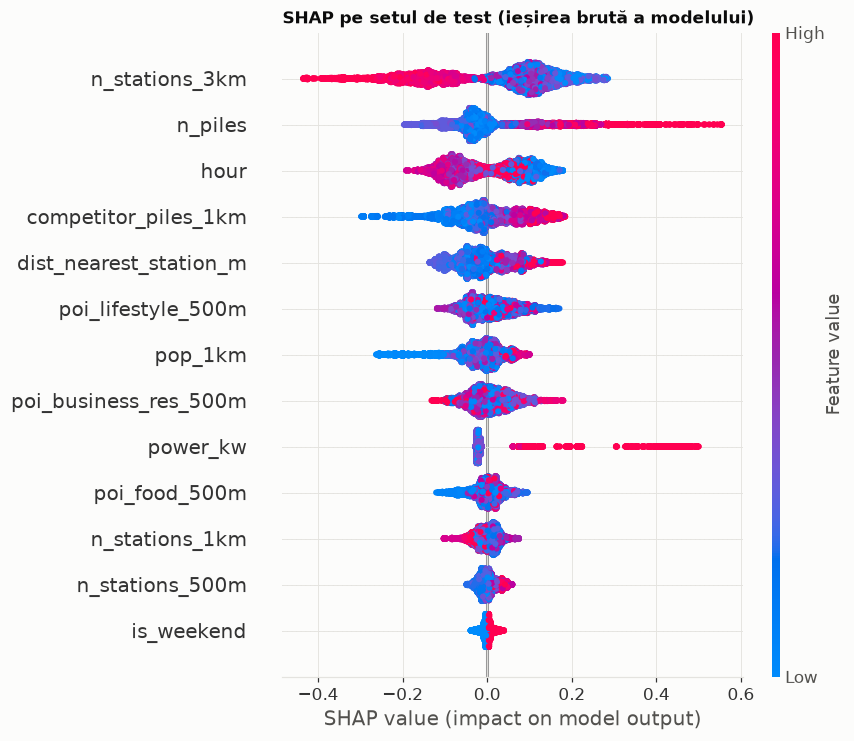
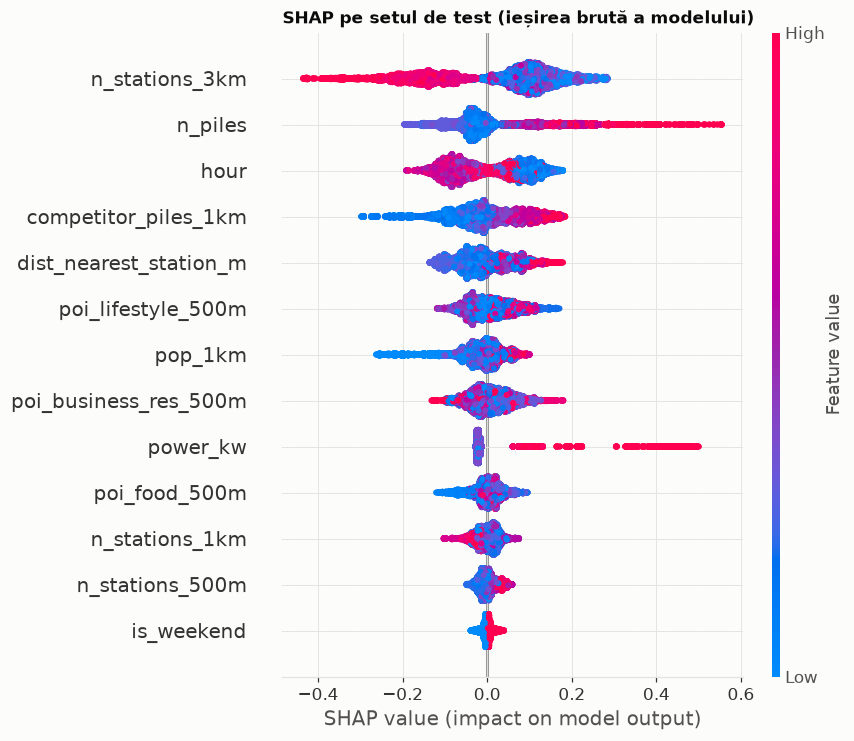
Pas 8: README, jurnalul experimentelor, reproductibilitate verificată de la zero
Rularea completă de la zero (fără data/processed/*.parquet, models/, reports/)
produce metrics.json, experiments.json, analysis.json și lgbm.txt identice.
Elimină timpii din cv_results.csv și fixează seed-ul pentru jitter-ul SHAP.

Changed region(s): [[0.4871, 0.0621, 0.7307, 0.807], [0.4567, 0.0931, 0.5176, 0.1242]]

diff --git a/src/train.py b/src/train.py
@@ -120,10 +120,9 @@ def train(feature_set="full", monotone=C.USE_MONOTONE, save=True, quick=False):
         t = time.time()
         maes, iters = run_cv(tr, features, params, folds, mode)
         rows.append({"target_mode": mode, **obj, **extra, "cv_mae": np.mean(maes), "cv_mae_std": np.std(maes),
-                     "best_iter_mean": np.mean(iters), "fold_maes": maes, "fold_iters": iters,
-                     "secs": round(time.time() - t, 1)})
+                     "best_iter_mean": np.mean(iters), "fold_maes": maes, "fold_iters": iters})
         print(f"{mode:3s} {json.dumps({**obj, **extra})}: CV MAE {np.mean(maes):.4f} ± {np.std(maes):.4f}, "
-              f"iter {np.mean(iters):.0f}")
+              f"iter {np.mean(iters):.0f} ({time.time() - t:.0f}s)")
     cv = pd.DataFrame(rows).sort_values("cv_mae").reset_index(drop=True)
     best = cv.iloc[0]
     mode = best["target_mode"]

diff --git a/src/analysis.py b/src/analysis.py
@@ -184,6 +184,7 @@ def profiles(pred: pd.DataFrame, st: pd.DataFrame) -> dict:
 def shap_analysis(booster, features, X: pd.DataFrame, target_mode: str) -> dict:
     sv = shap.TreeExplainer(booster).shap_values(X[features])
     fig = plt.figure()
+    np.random.seed(C.SEED)  # beeswarm-ul folosește jitter aleator; seed pentru figuri reproductibile
     shap.summary_plot(sv, X[features], show=False, max_display=len(features))
     plt.title("SHAP pe setul de test (ieșirea brută a modelului)", loc="left")
     save(plt.gcf(), "shap_summary.png")

diff --git a/src/inspect_data.py b/src/inspect_data.py
@@ -38,7 +38,8 @@ def main():
     dist = load_station_distance()
     describe("station_information.csv", info)
     describe("pile_rated_power.csv", piles)
-    describe("station_distance.csv (primele 6 coloane)", dist.reset_index(), show_cols=6)
+    dist_df = pd.concat([pd.Series(dist.index, name="ID"), dist.reset_index(drop=True)], axis=1)
+    describe("station_distance.csv (primele 6 coloane)", dist_df, show_cols=6)
     describe("poi.csv", poi)
 
     ids = list_station_ids()

diff --git a/README.md b/README.md
@@ -1,0 +1,130 @@
+# Cererea la stațiile de încărcare EV: model ML (faza 1)
+
+Smarthack XI 2026, tema PPC „24h to Power PPC”.
+
+Modelul prezice **cererea de încărcare** la o stație: numărul mediu de puncte ocupate, pentru fiecare oră a zilei și fiecare tip de zi (lucrătoare sau weekend). Folosește doar informații care există și pentru o **locație nouă**: competiția din jur, populația, POI, mărimea și puterea stației, ora. Nu folosește coordonate, ID-uri, prețuri sau istoricul de ocupare. A fost antrenat pe datele UrbanEV din Shenzhen (1.406 stații, septembrie 2022 – februarie 2023) și va fi folosit ulterior de un agent care recomandă unde să se construiască stații noi.
+
+Planul complet: [PLAN.md](PLAN.md). Note despre date: [docs/data_notes.md](docs/data_notes.md). Experimente și analiza erorilor: [docs/experiments.md](docs/experiments.md).
+
+## Rezultate pe setul de test
+
+Testul conține 20% din zonele de trafic (TAZ), alese o singură dată cu seed 42. Toate stațiile unei zone sunt fie în train, fie în test.
+
+| Model | MAE (rând) | RMSE (rând) | R² (rând) | MAE ore încărcare/zi (stație) | Spearman cerere zilnică |
+|---|---|---|---|---|---|
+| B0 (profil oraș) | 3.269 | 5.334 | 0.008 | 74.26 | — |
+| B1 (ocupare × n_piles) | 1.930 | 3.400 | 0.597 | 41.59 | 0.775 |
+| **LightGBM** | **1.795** | **2.949** | **0.697** | **39.05** | 0.768 |
+
+Set de test: 14.576 rânduri, 304 stații, 61 de zone (metricile pe stație folosesc 302 stații, cele cu toate cele 48 de celule). Media lui y în test e 3,757 puncte ocupate, adică 87,8 ore de încărcare pe zi per stație.
+
+- **Rând** = stație × oră × tip de zi. **Ore de încărcare pe zi** = (5·Σ zi lucrătoare + 2·Σ weekend) / 7.
+- **B0**: profilul mediu orar al orașului. **B1**: rata medie de ocupare per oră și tip de zi × numărul de puncte al stației. Ambele sunt calculate doar pe train.
+- Față de B1, LightGBM reduce MAE cu 7% și RMSE cu 13% și crește R² de la 0,60 la 0,70. În **CV pe zone** (doar train), câștigul de MAE față de B1 e de 10,4%; pe blocuri spațiale mai mari (KMeans), de 8,3%.
+- La **clasarea** stațiilor după cererea zilnică, modelul e la egalitate cu B1 (Spearman 0,768 față de 0,775). Clasarea stațiilor existente e dominată de mărimea lor. Avantajul modelului e în nivelul cererii, adică în cum modulează locația rata de ocupare.
+
+### Ce contează (SHAP, grupat)
+
+| Grup de feature-uri | medie \|Σ SHAP\| |
+|---|---|
+| competiție (`dist_nearest_station_m`, `n_stations_500m/1km/3km`, `competitor_piles_1km`) | 0,129 |
+| stație (`n_piles`, `power_kw`) | 0,105 |
+| populație și POI | 0,085 |
+| timp (`hour`, `is_weekend`) | 0,078 |
+
+Modelul prezice rata de ocupare, iar `n_piles` intră și ca multiplicator, deci efectul structural al mărimii nu apare în SHAP. Mai multe stații pe 3 km înseamnă ocupare mai mică per stație. Populația mare, puterea mare și orele de noapte cresc ocuparea. Figurile sunt în [reports/figures/](reports/figures/).
+
+### Unde greșește
+
+Detaliile sunt în [docs/experiments.md](docs/experiments.md#analiza-erorilor-set-de-test-modelul-final).
+
+- **Stații mari, lente, periferice, cu încărcare de noapte** (depouri de flotă sau parcări rezidențiale): sunt subestimate, cu ocupare reală de 0,44 față de 0,28 prezisă. Ele produc 28% din eroarea totală prin doar 20 de stații. Tipul de utilizator nu se vede în niciun feature.
+- **Noaptea** modelul subestimează sistematic (bias de −0,3 până la −0,6 puncte).
+- **Stații „moarte”** (cerere aproape zero): sunt supraestimate.
+- **Saturare:** modelul prezice medii și nu atinge pragul de ocupare de 0,9 la ora de vârf, deci precizia și recall-ul la prag sunt 0. Ca clasare are AUC 0,74 față de ocuparea reală de vârf peste 0,9.
+- **`n_piles`:** cererea prezisă crește cu numărul de puncte, dar **super-liniar**, din cauza selection bias-ului (stațiile mari sunt construite unde cererea e deja mare). Agentul nu trebuie să aleagă `n_piles` doar după acest model.
+
+## Rulare
+
+Cerințe: Python 3.13 (testat cu 3.13.9), aproximativ 6 GB de date brute și 4,5 GB temporar pentru WorldPop.
+
+```bash
+python -m venv .venv && source .venv/bin/activate
+pip install -r requirements.txt
+
+python -m src.download        # verifică UrbanEV; descarcă și decupează WorldPop (~4,4 GB, o singură dată)
+python -m src.inspect_data    # pasul 0: structura datelor (docs/data_notes.md)
+python -m src.build_dataset   # ținta + feature-urile -> data/processed/train_table.parquet
+python -m src.split           # split pe zone -> data/processed/split.json (NU suprascrie fișierul existent)
+python -m src.train           # CV pe zone + modelul final -> models/lgbm.txt, models/params.json
+python -m src.evaluate        # B0, B1, LightGBM pe test -> reports/metrics.json, reports/metrics_table.md
+python -m src.analysis        # erori, SHAP, ICE/PD, saturare -> reports/figures/, reports/analysis.json
+python -m src.experiments     # ablații și verificări de robustețe (doar CV) -> reports/experiments.json
+```
+
+Tot fluxul durează aproximativ 3 minute pe 16 nuclee, fără descărcarea WorldPop.
+
+**Date UrbanEV.** Dryad nu permite o descărcare automată fiabilă, așa că `src.download` doar verifică dacă fișierele există și, dacă lipsesc, afișează instrucțiuni. Descărcați datele brute pe stații de pe Dryad și dezarhivați-le în `data/raw/UrbanEVDataset/20220901-20230228_station-raw/`. Datele suplimentare (POI) vin din repository-ul GitHub UrbanEV și se pun în `data/raw/UrbanEVSupplemental/`.
+
+**Reproductibilitate.**
+- `split.json` e în repository și e sursa de adevăr pentru split. A fost generat înainte de regula care elimină seriile blocate, iar regenerarea lui (`--force`) ar alege alte zone de test.
+- LightGBM rulează cu `deterministic=True` și `seed=42`, deci două rulări consecutive dau același `metrics.json`.
+- Toate constantele (raze, praguri, seed) sunt în [src/config.py](src/config.py).
+
+## Ținta și feature-urile
+
+- **Ținta y:** numărul mediu de puncte ocupate (`busy`) per stație × oră × tip de zi, calculat doar pe intervalele disponibile de 5 minute.
+- **Stații eliminate:**
+  - 21 fără date;
+  - 238 cu acoperire sub 70%;
+  - 17 cu serii blocate pe plin (toate punctele ocupate în peste 95% din timp, un artefact de raportare).
+- **Celule eliminate:** 38 de celule cu mai puțin de 10 observații. Rămân 1.406 stații și 67.381 de rânduri ([reports/data_quality.json](reports/data_quality.json)).
+- **Modelul:** LightGBM (tweedie 1,2, 31 de frunze, `min_child_samples = 1000`, 108 runde). Prezice **rata de ocupare** y/n_piles, cu pondere n_piles, iar predicția se înmulțește cu n_piles. Ocuparea e constrânsă să nu scadă când crește `power_kw`. Alegerea s-a făcut prin CV GroupKFold(5) pe zone, doar în train.
+
+| Feature | Definiție |
+|---|---|
+| `dist_nearest_station_m` | distanța haversine până la cea mai apropiată altă stație (din toate cele 1.682 de stații brute) |
+| `n_stations_500m`, `n_stations_1km`, `n_stations_3km` | numărul altor stații pe rază |
+| `competitor_piles_1km` | numărul de puncte ale celorlalte stații pe 1 km |
+| `pop_1km` | populația WorldPop 2020 (100 m) pe 1 km |
+| `poi_food_500m`, `poi_business_res_500m`, `poi_lifestyle_500m` | numărul de POI pe 500 m, pe categorii |
+| `n_piles` | numărul de puncte de încărcare |
+| `power_kw` | puterea nominală medie pe punct; pentru cele 130 de stații fără date de putere, imputată din numărul de puncte AC și DC |
+| `hour`, `is_weekend` | ora 0–23 și sâmbătă/duminică |
+
+**Excluse intenționat:** coordonate, ID-uri de stație și zonă, orice derivat din `busy`, prețul, vremea și sezonul (vezi PLAN.md §6.4 și §8).
+
+## Structura
+
+```
+src/config.py            constante: căi, raze, praguri, seed, lista de feature-uri
+src/download.py          verificarea UrbanEV + WorldPop (descărcare și decupaj Shenzhen)
+src/inspect_data.py      pasul 0
+src/load_urbanev.py      citirea fișierelor UrbanEV și POI
+src/target.py            busy -> y, filtre, data_quality.json
+src/features_*.py        feature-uri spațiale (haversine, BallTree), de stație, temporale
+src/build_dataset.py     -> train_table.parquet, station_features.parquet
+src/split.py             split pe zone (seed 42)
+src/baselines.py         B0, B1
+src/train.py             CV pe zone, grid, modelul final
+src/evaluate.py          metrici pe test
+src/analysis.py          erori, SHAP, ICE/PD, saturare
+src/experiments.py       ablații și robustețe (doar CV)
+docs/                    note despre date, jurnalul experimentelor
+models/                  lgbm.txt, params.json
+reports/                 metrici, analize, figuri
+```
+
+## Limite
+
+- Ținta e **cererea servită**. La stațiile pline, cererea reală e mai mare decât cea observată.
+- UrbanEV conține stațiile unei singure platforme, deci competiția poate fi subestimată.
+- WorldPop e din 2020, iar datele de încărcare din 2022–2023.
+- Datele acoperă doar 6 luni (toamnă și iarnă), fără sezonalitate anuală. Sărbătorile și zilele lucrătoare mutate din China nu sunt tratate separat.
+- **Selection bias:** stațiile au fost construite de operatori în locuri pe care le-au considerat bune, iar mărimea lor a fost aleasă după cererea așteptată. Efectul învățat al lui `n_piles` nu e cauzal.
+- Zonele TAZ sunt mici, deci o parte din câștig poate veni din autocorelarea spațială. Pe blocuri spațiale mai mari, câștigul în CV față de B1 scade de la 10,4% la 8,3%.
+
+## Surse de date și licențe
+
+- **UrbanEV** (CC0 1.0). Li, H., Qu, H., Tan, X. et al. *UrbanEV: An Open Benchmark Dataset for Urban Electric Vehicle Charging Demand Prediction.* Scientific Data 12, 523 (2025). https://doi.org/10.1038/s41597-025-04874-4. Datele brute pe stații: https://doi.org/10.5061/dryad.np5hqc04z. Repository: https://github.com/IntelligentSystemsLab/UrbanEV
+- **WorldPop** (CC BY 4.0), China 2020, 100 m, ajustat la UN (`chn_ppp_2020_UNadj.tif`). WorldPop (www.worldpop.org - School of Geography and Environmental Science, University of Southampton; Department of Geography and Geosciences, University of Louisville; Departement de Geographie, Universite de Namur) and Center for International Earth Science Information Network (CIESIN), Columbia University (2018). Global High Resolution Population Denominators Project - Funded by The Bill and Melinda Gates Foundation (OPP1134076). https://dx.doi.org/10.5258/SOTON/WP00660

diff --git a/docs/experiments.md b/docs/experiments.md
@@ -1,0 +1,73 @@
+# Jurnalul experimentelor
+
+## Cum s-a evaluat
+
+- Toate alegerile de model (mod țintă, obiectiv, hiperparametri, feature-uri, constrângeri) s-au făcut prin **CV GroupKFold(5) pe zone, doar în train**: 1.102 stații, 253 de zone, 52.805 rânduri. MAE e calculat mereu pe `y` (puncte ocupate).
+- Comparațiile din `src/experiments.py` folosesc **aceleași fold-uri**. Pentru fiecare experiment raportăm diferența medie față de referință (Δ) și în câte din cele 5 fold-uri e mai bun. Cu doar 5 fold-uri, o diferență sub ~0,01 e zgomot.
+- **Igiena setului de test.** Testul a fost rulat de câteva ori în timpul dezvoltării, ca verificare a fluxului cap-coadă, dar nicio alegere de hiperparametri, țintă sau feature-uri nu s-a făcut după scorul de test. O singură decizie a pornit de la analiza pe test: regula pentru seriile blocate (punctul 2 de mai jos). E o regulă de calitate a datelor, aplicată uniform tuturor stațiilor înainte de split. `split.json` **nu** a fost regenerat după ea: zonele de test au rămas cele alese inițial cu seed 42.
+
+Pentru reproducere: `python -m src.train`, `python -m src.experiments` (aproximativ 30 s), cu rezultatele în `reports/cv_results.csv` și `reports/experiments.json`.
+
+## Cronologie
+
+| # | Ce s-a schimbat | CV MAE | B1 CV | Câștig vs B1 | Observații |
+|---|---|---|---|---|---|
+| 1 | Flux de bază: ținta `y`, fără POI/populație, grid inițial (15/31/63 frunze, min_child 50/200), L2 vs tweedie 1,2/1,5 | 1,782 | 1,876 | +5,0% | Tweedie 1,5 > tweedie 1,2 > L2 la fiecare combinație. Pe test: MAE 1,865 față de 2,035 la B1, R² 0,681 față de 0,561. |
+| 2 | **Regulă de calitate:** eliminate 17 stații „blocate pe plin” (`sat_share > 0,95`) | 1,725 | 1,854 | +6,9% | Găsite în profilurile din analiza erorilor. Exemplu: stația 1265 are 45/45 puncte ocupate în 99,97% din intervale timp de 6 luni, iar 4 stații au `busy` perfect constant. Rămân ca infrastructură în feature-urile de competiție. |
+| 3 | + POI și `pop_1km` (feature-urile din plan) | 1,755 | 1,854 | +5,3% | **Mai rău** decât fără ele. Cea mai bună configurație era la marginea grilei (cei mai mici arbori), deci overfitting pe locație. |
+| 4 | Grilă extinsă spre regularizare: 4–31 frunze, `min_child_samples` 200/500/1000 | 1,732 | 1,854 | +6,5% | Cele 48 de rânduri ale unei stații sunt puternic corelate, deci există doar aproximativ 1.100 de exemple independente. 1.000 de rânduri per frunză înseamnă cam 20 de stații. |
+| 5 | **Ținta = rata de ocupare `y/n_piles`**, cu pondere `n_piles`, iar predicția se înmulțește cu `n_piles` | 1,669 | 1,854 | +10,0% | Structura lui B1 (ocupare × mărime) e impusă, iar modelul învață doar cum modulează locația ocuparea. Cu ponderea `n_piles`, L1 pe ocupare e proporțional cu MAE pe `y`. Cu această formulare **toate** grupurile de feature-uri ajută (tabelul de mai jos). |
+| 6 | Constrângere monotonă: ocupare nedescrescătoare în `power_kw` (**modelul final**) | **1,662** | 1,854 | **+10,4%** | Fără ea, PD pe `power_kw` avea o mică scădere la 6–7 kW, iar doar 4% din curbele ICE erau monotone. Cu ea, 100% sunt monotone, fără cost în CV. |
+
+Modelul final: `target_mode = occ`, `objective = tweedie (1,2)`, `num_leaves = 31`, `min_child_samples = 1000`, `learning_rate = 0,05`, `feature_fraction = 0,8`, 108 runde, constrângere `power_kw: +1`. Detalii în `models/params.json`.
+
+## Experimente față de modelul final (CV pe zone, aceleași fold-uri)
+
+| Experiment | CV MAE | Δ față de final | Fold-uri mai bune | Câștig vs B1 |
+|---|---|---|---|---|
+| **modelul final** (ocupare, tweedie 1,2, monoton pe `power_kw`) | **1,662** | — | — | **+10,4%** |
+| fără populație și POI | 1,694 | +0,032 | 1/5 | +8,6% |
+| fără cele 3 feature-uri POI | 1,669 | +0,008 | 1/5 | +9,9% |
+| fără `pop_1km` | 1,688 | +0,026 | 1/5 | +8,9% |
+| fără feature-urile de competiție | 1,723 | +0,061 | 0/5 | +7,1% |
+| fără `power_kw` | 1,689 | +0,028 | 1/5 | +8,9% |
+| ținta `y` directă, tweedie 1,2 (abordarea inițială) | 1,776 | +0,114 | 0/5 | +4,2% |
+| ținta `y` directă, L2 | 1,799 | +0,138 | 0/5 | +2,9% |
+| ocupare, L2 | 1,688 | +0,026 | 0/5 | +9,0% |
+| ocupare, cross-entropy | 1,676 | +0,014 | 1/5 | +9,6% |
+| `learning_rate` 0,02 | 1,674 | +0,012 | 2/5 | +9,7% |
+| `lambda_l2` = 10 | 1,675 | +0,014 | 0/5 | +9,6% |
+| fără constrângeri monotone | 1,675 | +0,014 | 2/5 | +9,6% |
+| ocupare **necrescătoare** în `n_piles` (randament descrescător) | 1,765 | +0,104 | 0/5 | +4,8% |
+| + `fast_share` (ponderea punctelor DC; **nu** e în model) | 1,658 | −0,003 | 3/5 | +10,5% |
+| CV pe 50 de blocuri spațiale KMeans în loc de zone TAZ | 1,705 | n/a | n/a | +8,3% |
+
+Ce reiese:
+- **Competiția** e cel mai important grup: fără ea modelul e mai slab în toate cele 5 fold-uri. Urmează populația și `power_kw`. POI-urile aduc puțin (+0,008), dar constant, iar cele trei categorii sunt foarte corelate între ele (Spearman 0,75–0,94).
+- **Formularea țintei** contează mai mult decât orice hiperparametru: de la 4,2% la 10,4% câștig față de B1.
+- **Robustețe spațială.** Zonele TAZ sunt mici (aproximativ 1,5 km²), deci stații vecine pot ajunge în train și validare, iar câștigul ar putea fi umflat de autocorelarea spațială. Pe blocuri KMeans mult mai mari, câștigul scade de la 10,4% la 8,3%, dar rămâne. Prin urmare, cifrele pe zone TAZ sunt ușor optimiste.
+
+## Ce s-a încercat pentru corectarea erorilor și cu ce rezultat
+
+1. **Serii blocate pe plin** (eroarea cea mai mare din primul model). Eliminarea celor 17 stații a crescut câștigul în CV față de B1 de la +5,0% la +6,9%.
+2. **Overfitting pe locație** (POI/populația înrăutățeau CV-ul). Grila extinsă spre regularizare și, mai ales, ținta ca rată de ocupare au rezolvat problema: acum feature-urile de context ajută.
+3. **Efectul lui `n_piles` nu e „tot mai încet”.** Cererea prezisă crește cu `n_piles`: PD crescător, 93% din curbele ICE nedescrescătoare. Dar crește **convex**: panta e 0,22 puncte ocupate per punct adăugat în jumătatea de jos și 0,39 în cea de sus, iar ocuparea prezisă per punct urcă de la 0,22 (1–20 de puncte) la 0,36 (66 de puncte). Cauza e selection bias: operatorii construiesc stații mari unde cererea e deja mare. Am încercat constrângerea „ocupare necrescătoare în `n_piles`”. Ea face cererea **exact liniară** în `n_piles` (randament constant), costă +0,104 MAE în CV și pierde jumătate din câștig. O constrângere monotonă nu poate produce concavitate, iar datele transversale nu identifică randamentul descrescător. **Nu am adoptat-o.** Consecința pentru agent e descrisă mai jos.
+4. **`power_kw` nemonoton.** Corectat cu constrângere monotonă, fără cost (punctul 6 din cronologie).
+
+## Analiza erorilor (set de test, modelul final)
+
+Fișiere: `reports/analysis.json`, `reports/top20_stations.csv` și `reports/figures/`.
+
+- **Pe mărime:** eroarea absolută crește cu `n_piles` (MAE 0,61 în Q1 față de 3,93 în Q4), dar eroarea relativă scade (69% față de 41%). Câștigul față de B1 vine aproape integral din stațiile mari (Q4: 3,93 față de 4,45). La stațiile mici, modelul și B1 sunt la egalitate.
+- **Pe context:** câștigul cel mai mare apare în zonele cu populație medie spre mare (`pop_1km` Q3: 1,31 față de 1,54) și cu densitate medie de stații (`n_stations_1km` Q2–Q3). În zonele cele mai dense (Q4) modelul e chiar puțin mai slab decât B1 (1,16 față de 1,10).
+- **Pe oră:** modelul **subestimează sistematic noaptea** (bias de aproximativ −0,3 până la −0,6 puncte între 21:00 și 06:00) și e aproape nedeplasat ziua. Eroarea e maximă noaptea, atât la B1, cât și la LightGBM (`residuals_by_hour.png`).
+- **Top 20 de stații** (28% din eroarea absolută totală, 14 subestimate și 6 supraestimate): **mari** (mediana 35,5 puncte, față de 10 în test), **lente** (AC 7 kW), **periferice** (`n_stations_3km` 30 față de 59, `pop_1km` 27k față de 45k, POI de 2–4 ori mai puține). Ocuparea lor reală e 0,44, iar cea prezisă 0,28. Profilurile lor orare (`profiles_typical_atypical.png`) arată încărcare masivă noaptea și ocupare scăzută ziua: depouri de flotă (taxi, ride-hailing, logistică) sau parcări rezidențiale. **Tipul de utilizator al stației nu se vede în niciun feature**, iar aceasta e principala sursă de eroare.
+- **Eroare relativă mare:** stații cu cerere aproape zero (ocupare reală 4%, prezisă 23%), toate supraestimate. Sunt stații „moarte”, pe care modelul nu le poate distinge de vecinele lor.
+- **Saturare:** modelul prezice medii orare și se contractă spre medie (ocuparea prezisă la ora de vârf are maximum 0,65, iar cea reală 0,94), deci **nu atinge niciodată pragul de 0,9**. Precizia și recall-ul la prag sunt nedefinite sau 0. Ca clasare, stațiile cu cea mai mare ocupare de vârf prezisă conțin 2× (față de `sat_share ≥ 10%`) și 19× (față de ocuparea reală de vârf > 0,9) mai multe stații saturate decât rata de bază. AUC e 0,57, respectiv 0,74. Saturarea nu poate fi citită direct dintr-un prag pe predicțiile acestui model.
+
+## Concluzii pentru faza următoare (agentul)
+
+- **Nu lăsați agentul să aleagă `n_piles` doar după acest model.** Răspunsul învățat e super-liniar și reflectă unde au construit operatorii stații mari, nu efectul cauzal al adăugării de puncte. Variante: ocuparea evaluată la mărimea medie a stațiilor din zonă, plafonată, sau o logică explicită de capacitate (cerere în vehicule și servire limitată de numărul de puncte).
+- `power_kw` are acum un efect monoton (ocupare mai mare la putere mai mare) și poate fi folosit ca variabilă de decizie, cu aceeași prudență legată de selection bias.
+- Câștiguri probabile în acuratețe: tipul de stație sau utilizatorul (public, flotă, rezidențial), dacă există o sursă publică; `fast_share` (câștig marginal, 3/5 fold-uri).
+- Pentru clasarea locațiilor, LightGBM e la egalitate cu B1 (Spearman 0,768 față de 0,775 pe test). Avantajul modelului e în **nivelul** cererii (RMSE −13%), nu în ordonarea stațiilor existente, care e dominată de mărimea lor.
